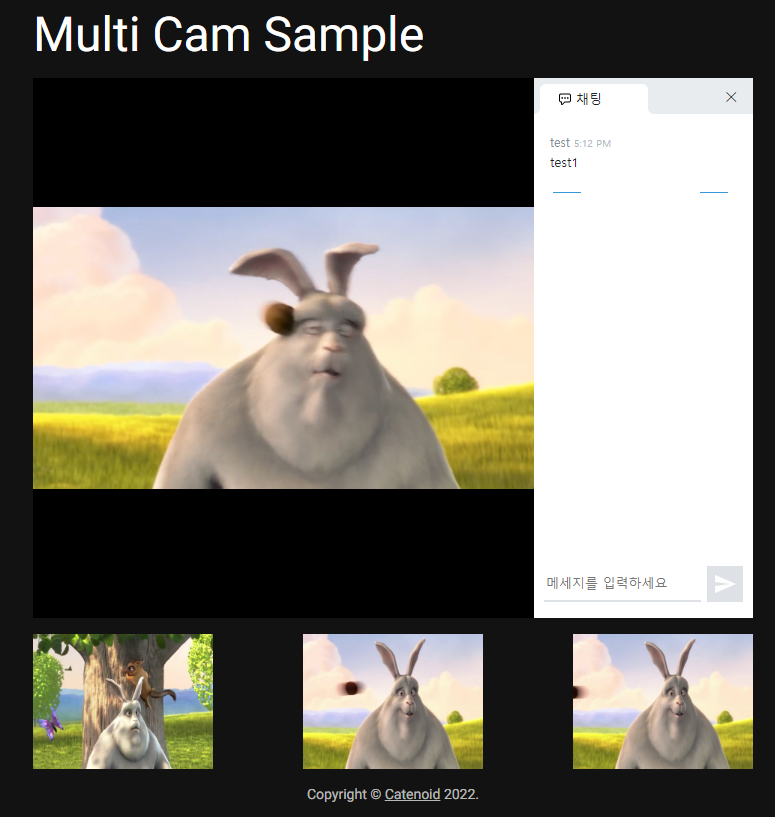
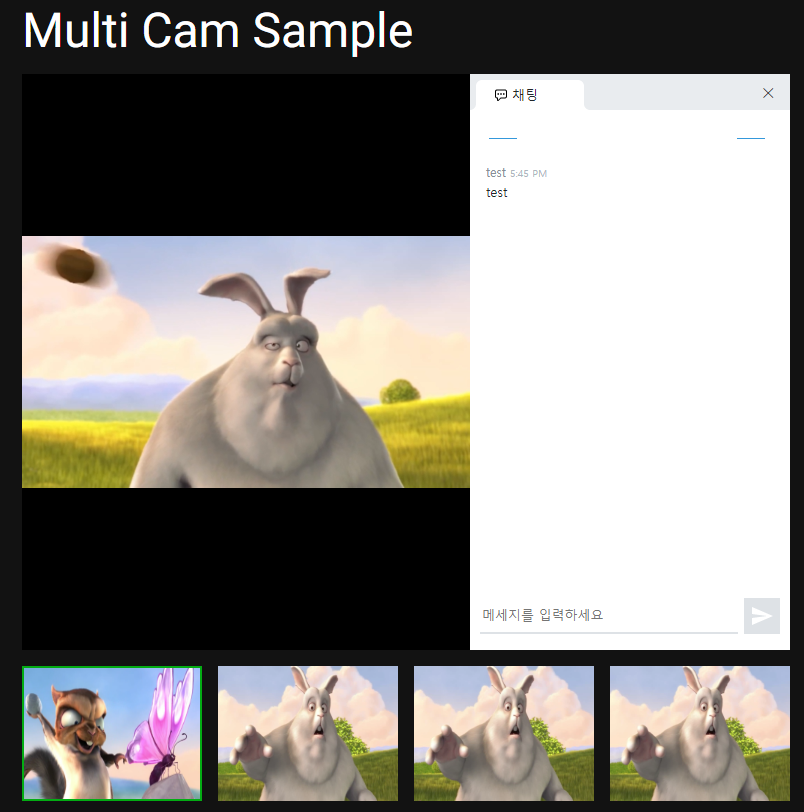
update cam & selector

diff --git a/pages/index.js b/pages/index.js
@@ -9,18 +9,19 @@ import useInfoStore from "../src/store/info";
 
 export default function Index() {
   const [datetime, setDatetime] = useState();
-  const { src, multiViewKey, setLmckey, generateLiveSrc } =
+  const { src, multiViewKey, setLmckey, setSelectedCam, generateLiveSrc } =
     useInfoStore();
 
   useEffect(() => {
     generateLiveSrc();
 
-    setInterval(() => {
+    const identifier = setInterval(() => {
       setDatetime(Date.now());
     }, 5000);
   }, [src]);
 
-  const changeView = (lmckey) => {
+  const changeView = (cam, lmckey) => {
+    setSelectedCam(cam);
     setLmckey(lmckey);
     generateLiveSrc();
   };
@@ -46,9 +47,10 @@ export default function Index() {
             {Object.keys(multiViewKey).map((cam) => {
               return <SnapShot
                 key={cam}
+                cam={cam}
                 lmckey={multiViewKey[cam]}
                 datetime={datetime}
-                changeView={() => changeView(multiViewKey[cam])}
+                changeView={() => changeView(cam, multiViewKey[cam])}
               />;
             })}
           </Stack>

diff --git a/src/store/info.js b/src/store/info.js
@@ -5,11 +5,13 @@ const useInfoStore = create((set) => ({
   // iframe 링크를 저장하는 곳
   src: "",
   // lmckey : 채널 키, live_media_channel_key 축약 형태
-  lmckey: "", // ch01 채널 키
+  lmckey: "", // ch01 채널 키 (default)
+  selectedCam: "cam1", // 선택된 채널
   multiViewKey : {
     cam1 : "", // ch01 채널 키
     cam2 : "", // ch02 채널 키
     cam3 : "", // ch03 채널 키
+    cam4 : "", // ch04 채널 키
   },
   cuid: "", // 채팅에서 사용할 사용자 아이디
   liveSecurity: "", // 기본 정보 > 서비스 계정 > 서비스 계정 키
@@ -19,6 +21,12 @@ const useInfoStore = create((set) => ({
     set((prevState) => {
       return {
         lmckey: lmckey,
+      };
+    }),
+  setSelectedCam: (cam) =>
+    set((prevState) => {
+      return {
+        selectedCam: cam,
       };
     }),
   generateLiveSrc: () =>

diff --git a/src/component/Player/SnapShot.js b/src/component/Player/SnapShot.js
@@ -2,7 +2,7 @@ import React, { useEffect } from 'react';
 import useInfoStore from '../../store/info';
 
 const PlayerView = (props) => {
-  const { liveSecurity } = useInfoStore();
+  const { selectedCam, liveSecurity } = useInfoStore();
 
   useEffect(() => {
   }, []);
@@ -16,7 +16,7 @@ const PlayerView = (props) => {
       height={135}
       loading="eager"
       onClick={props.changeView}
-      style={{cursor:"pointer"}}
+      style={{cursor:"pointer", border: selectedCam === props.cam?"2px solid #03ac13":"none"}}
       />
     </>
   );

diff --git a/src/component/Player/PlayerView.js b/src/component/Player/PlayerView.js
@@ -7,8 +7,8 @@ const PlayerView = (props) => {
       <iframe
         id="kollus-player"
         className="kollus-player"
-        width="720"
-        height="540"
+        width="768"
+        height="576"
         src={props.src}
         frameBorder="0"
         allowFullScreen

diff --git a/README.md b/README.md
@@ -14,10 +14,12 @@ const useInfoStore = create((set) => ({
   src: "", // iframe 링크를 저장하는 곳 (수정 X)
   // lmckey : 채널 키, live_media_channel_key 축약 형태
   lmckey: "", // ch01 채널 키
+  selectedCam: "cam1", // 선택된 채널
   multiViewKey : {
     cam1 : "", // ch01 채널 키
     cam2 : "", // ch02 채널 키
     cam3 : "", // ch03 채널 키
+    cam4 : "", // ch04 채널 키
   },
   cuid: "", // 채팅에서 사용할 사용자 아이디
   liveSecurity: "", // 기본 정보 > 서비스 계정 > 서비스 계정 키
